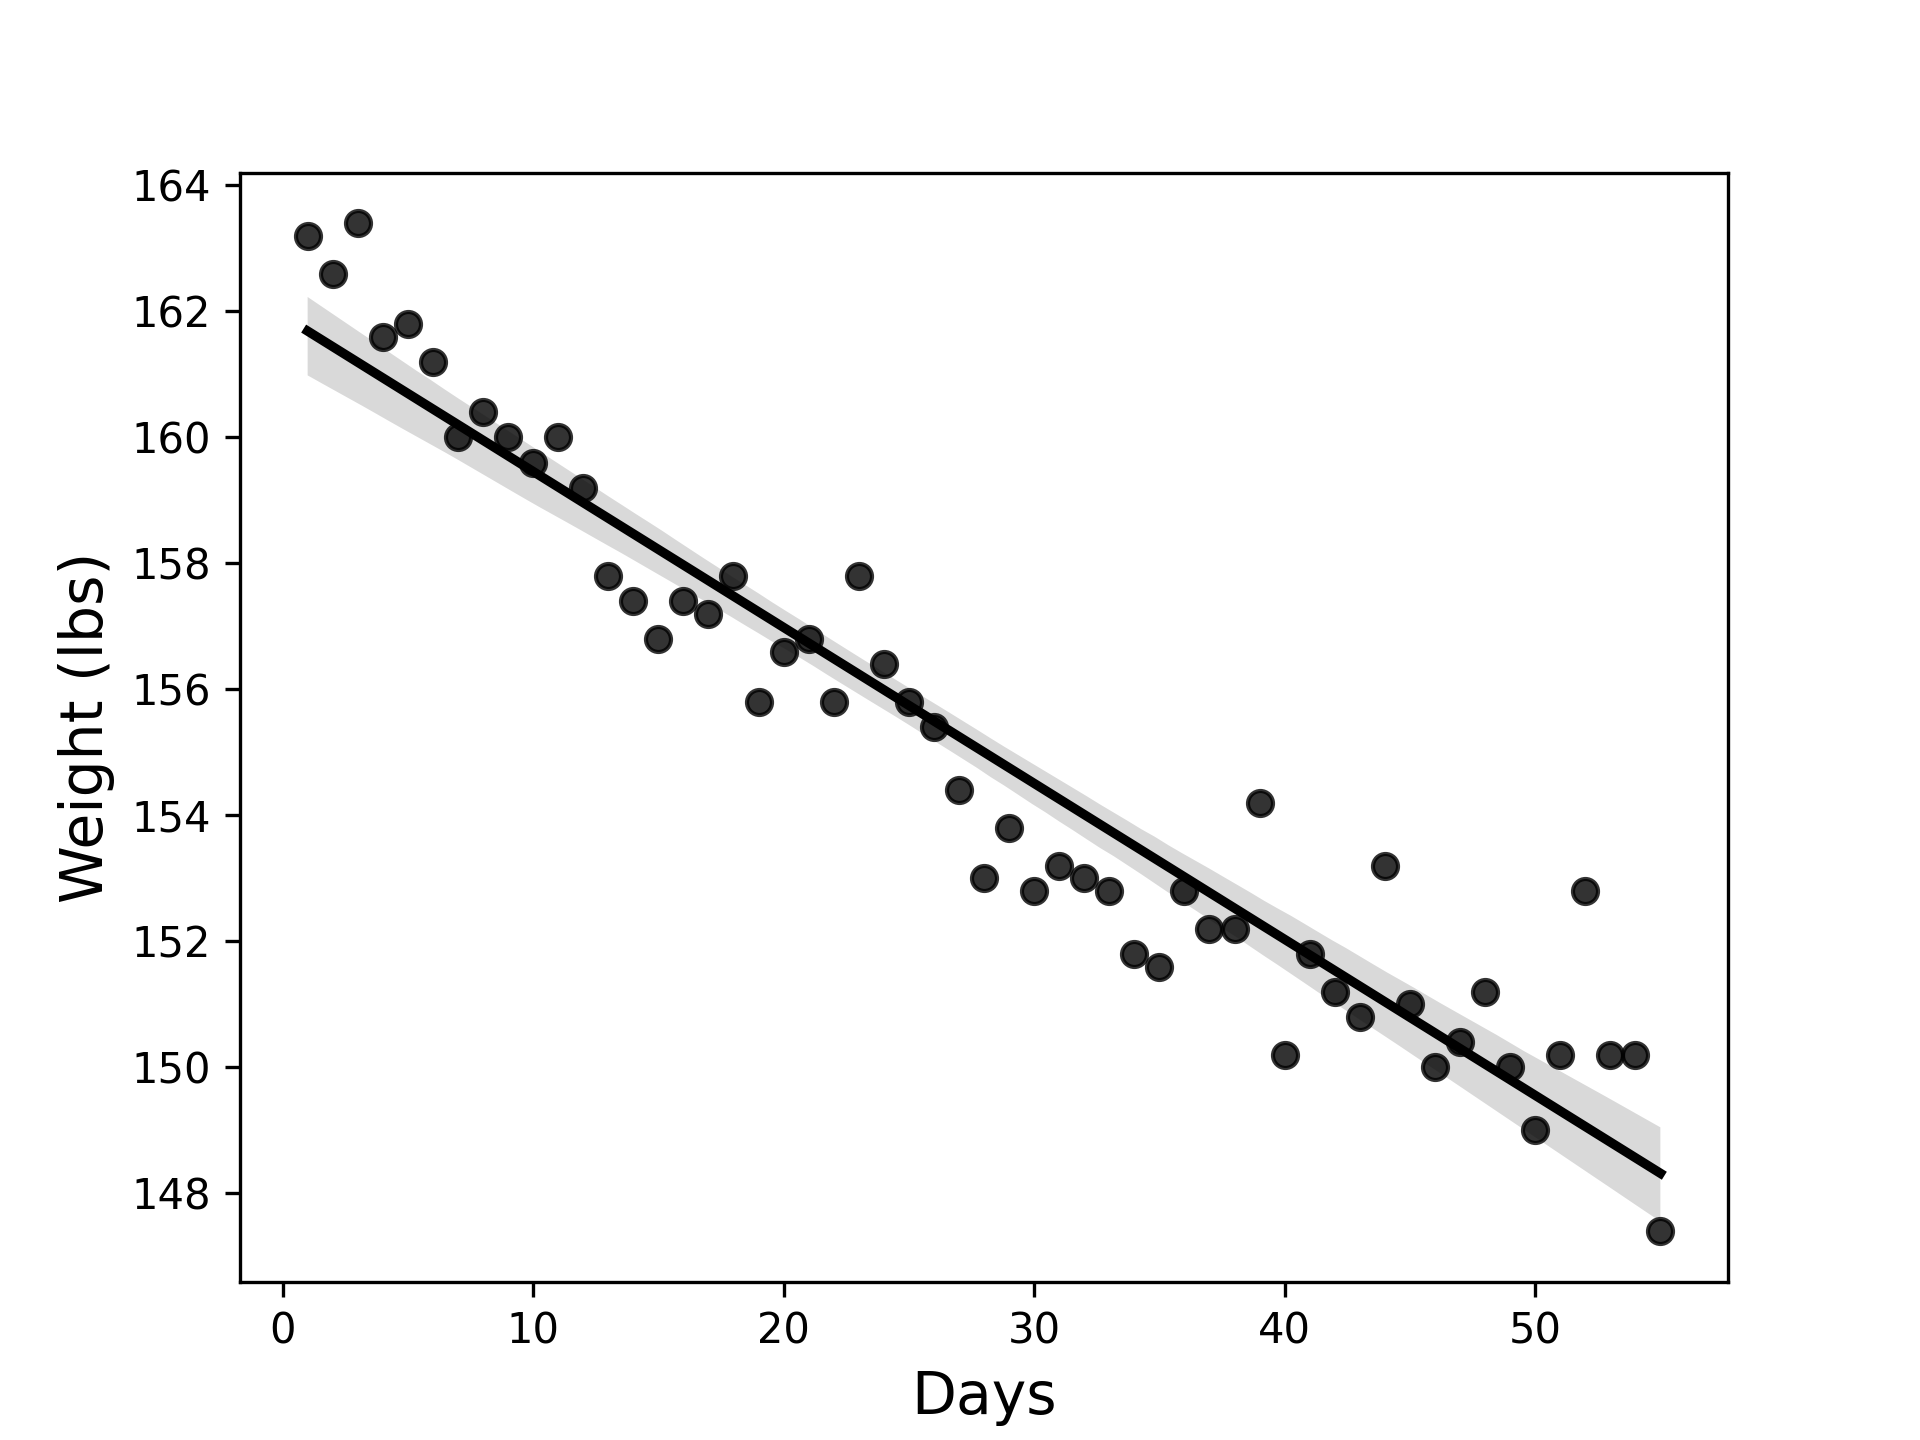
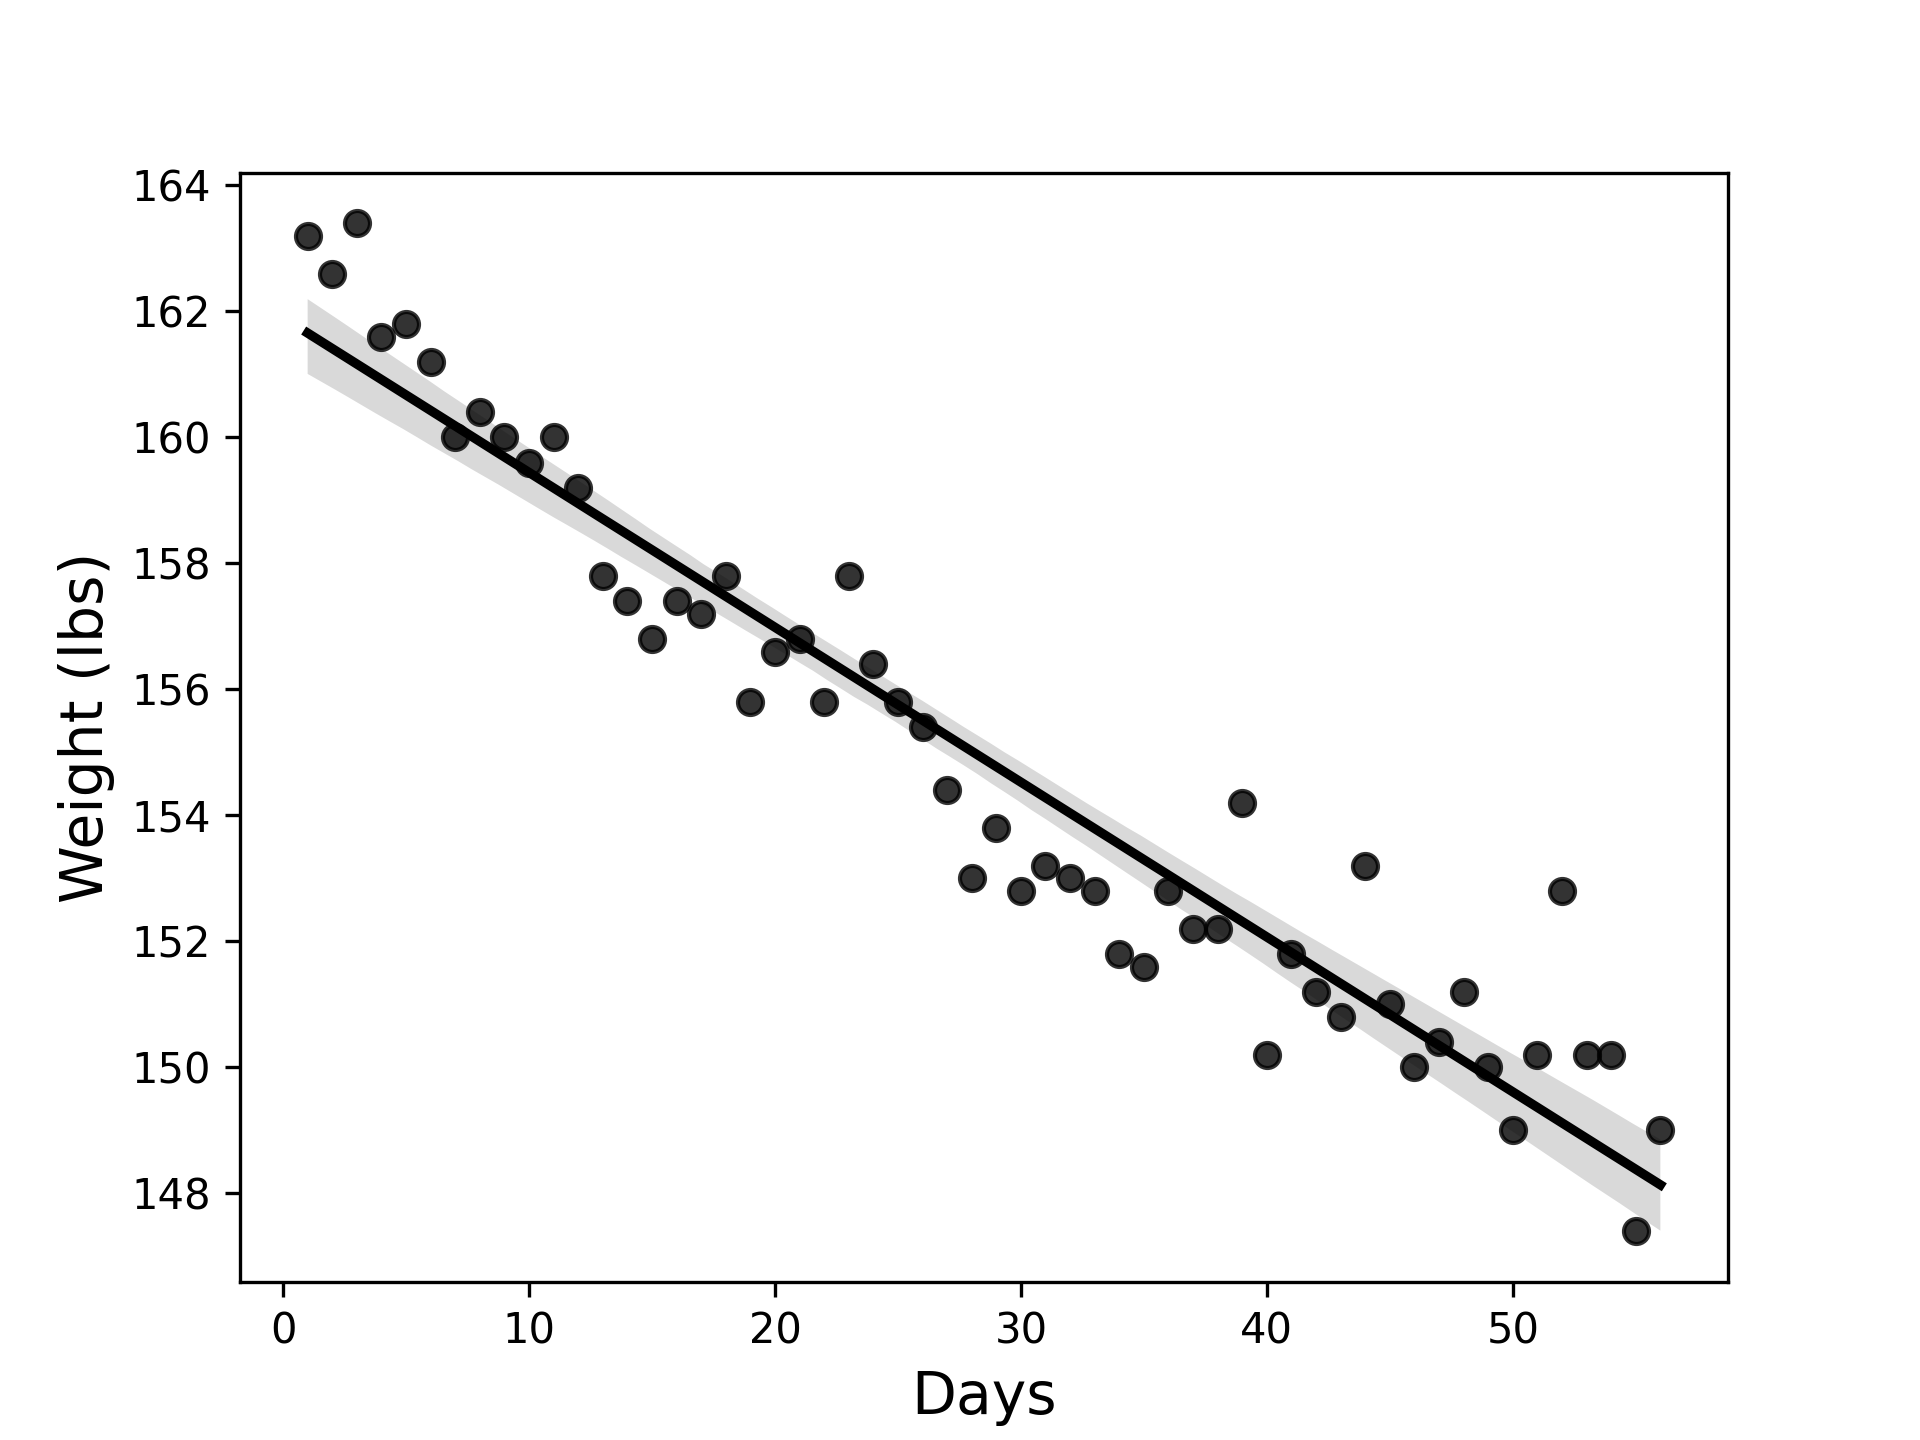
Updated weight.py and weight.png

diff --git a/Weight.py b/Weight.py
@@ -7,11 +7,11 @@ import seaborn as sns
 # Creates an array of elapsed days and assigns it to days_elapsed
 days_elapsed = np.array([1, 2, 3 ,4, 5, 6, 7, 8, 9, 10,11,12,13, 14,15,16,17,18,
                          19, 20,21,22,23,24,25,26,27,28,29,30,31,32,33,34,35,36,37,38,39,
-                         40,41,42,43,44,45,46,47,48,49,50,51,52,53,54,55]).reshape(-1,1)
+                         40,41,42,43,44,45,46,47,48,49,50,51,52,53,54,55,56]).reshape(-1,1)
 weight = np.array([163.2, 162.6, 163.4, 161.6, 161.8, 161.2, 160.0, 160.4, 160.0, 159.6,160.0,159.2,157.8, 157.4,156.8,157.4,
                    157.2, 157.8,155.8, 156.6,156.8,155.8,157.8,156.4,155.8,155.4,154.4,153.0,153.8,152.8,153.2,
                    153.0,152.8,151.8,151.6,152.8,152.2,152.2,154.2,150.2, 151.8,151.2,150.8,153.2,
-                   151.0,150.0,150.4,151.2,150.0,149.0,150.2,152.8,150.2,150.2,147.4])
+                   151.0,150.0,150.4,151.2,150.0,149.0,150.2,152.8,150.2,150.2,147.4,149.0])
 
 # Instantiates a LinearRegression model and fits it to the above arrays
 model = sklearn.linear_model.LinearRegression().fit(days_elapsed,weight)
